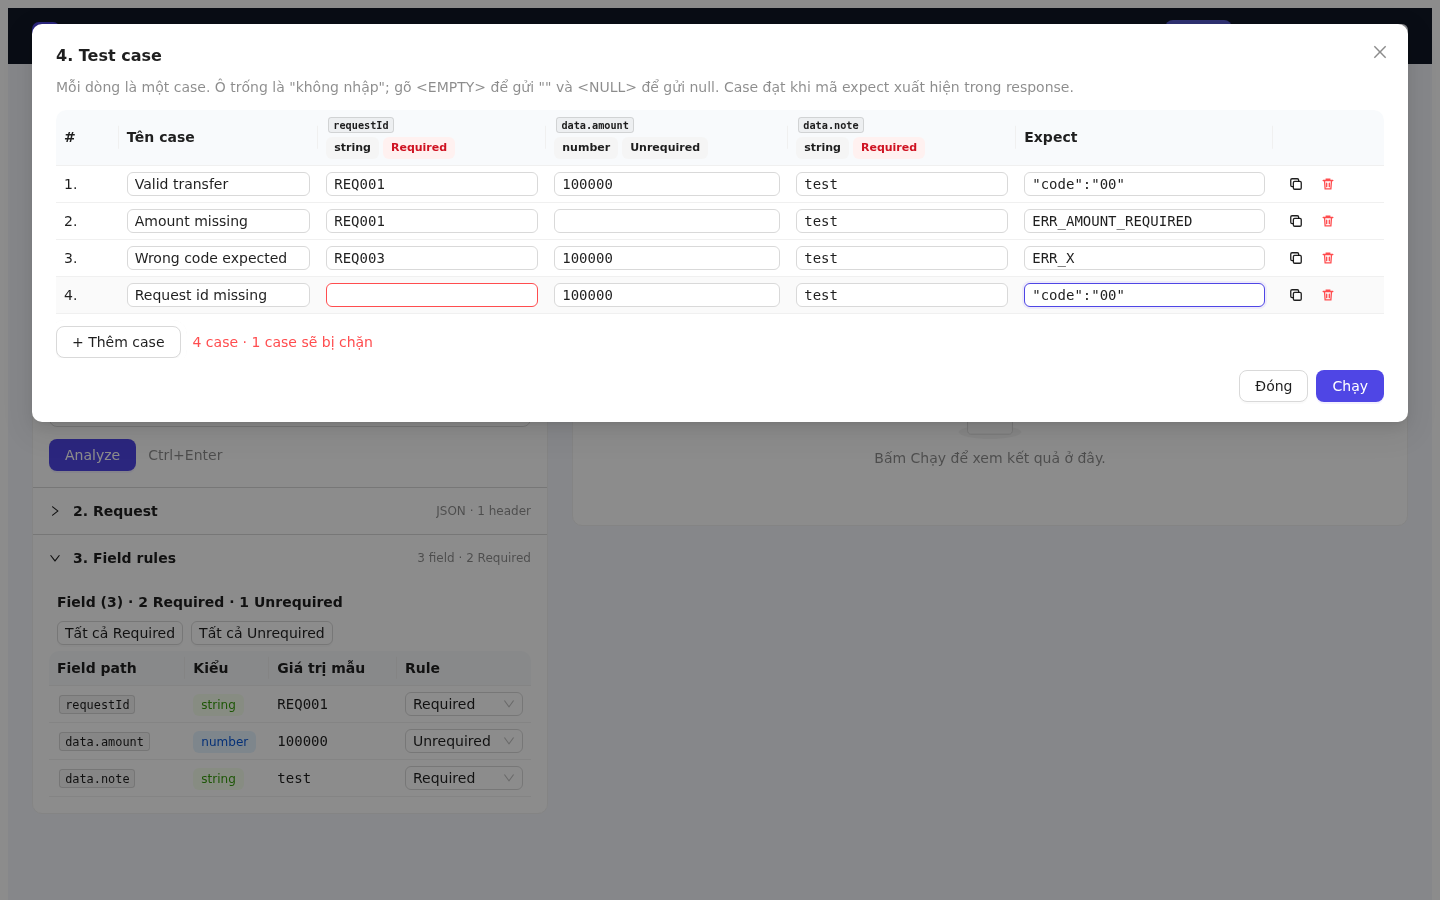
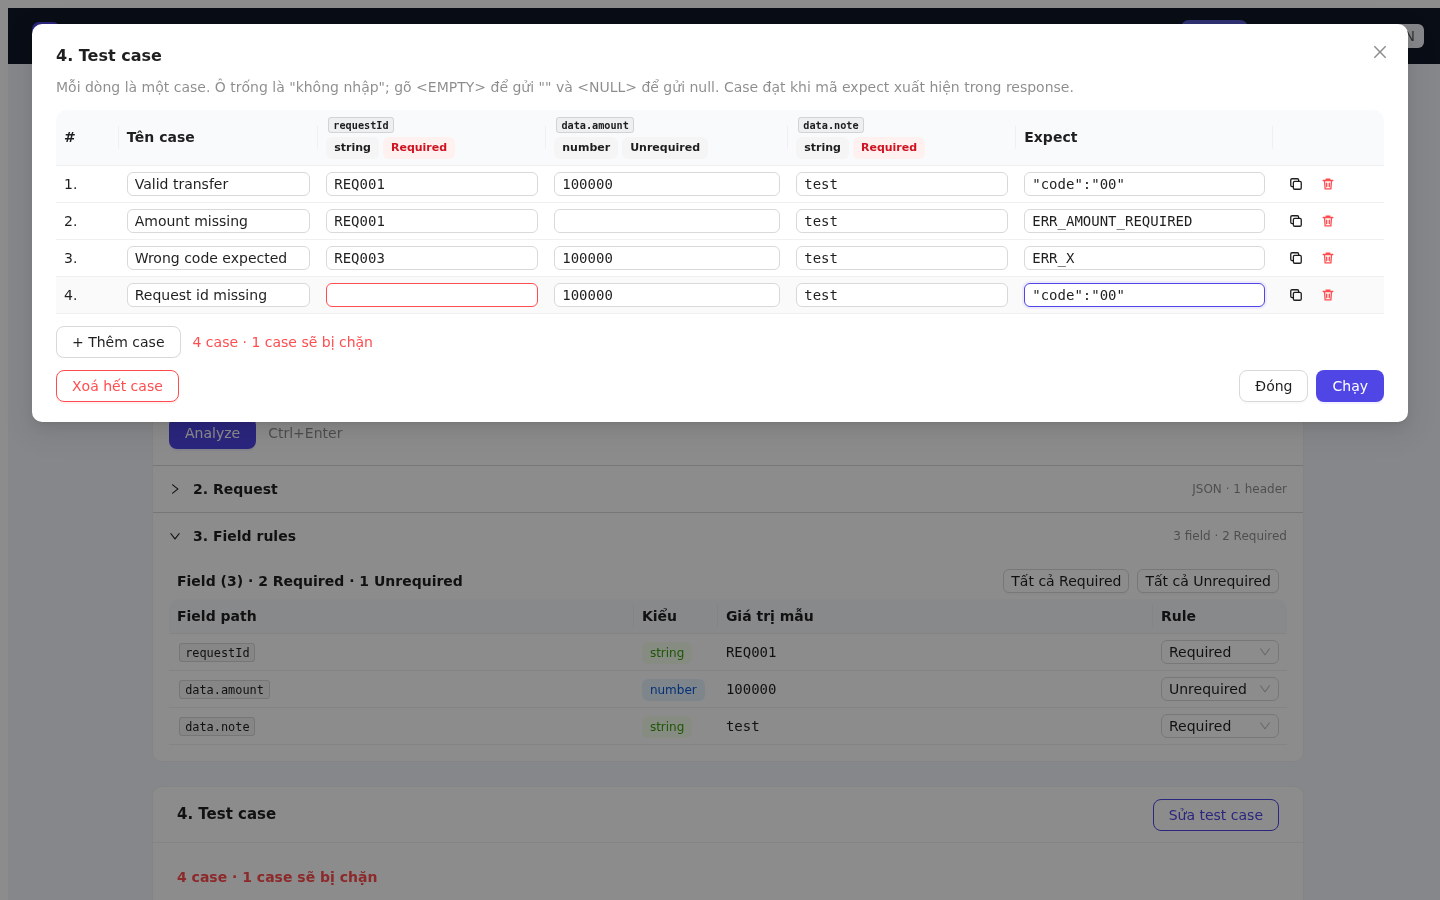
docs: describe the case popup flow

diff --git a/docs/user-guide.vi.md b/docs/user-guide.vi.md
@@ -37,13 +37,14 @@ Khi thấy dòng `listening`, mở **http://127.0.0.1:8080** trên trình duyệ
 
 Nếu developer đưa sẵn chương trình đã build (`caserunner.exe` trên Windows) thì bạn chỉ cần bước cuối này.
 
-Trang có một thanh trên màu tối và hai cột:
+Trang có một thanh trên màu tối và một cột ở giữa:
 
 - **Thanh trên**: nút **Chạy** (thành **Huỷ run** khi đang chạy, và **Chạy lại** sau đó), số case theo từng trạng thái, tag **BE OK** kèm phiên bản khi tool đã sẵn sàng, và nút **VI / EN** để đổi ngôn ngữ (lựa chọn được ghi nhớ).
-- **Cột trái, Cấu hình**: các bước mô tả request, **0. Lấy token**, **1. Curl**, **2. Request** và **3. Field rules**. Bấm vào tiêu đề để mở hoặc thu gọn; bước đang thu gọn hiện một dòng tóm tắt bên phải, ví dụ *POST https://…* hay *5 field · 4 Required*. **Nhập cấu hình** và **Xuất cấu hình** nằm ở đầu cột này. Nút **«** thu cột thành một dải hẹp để bảng case và kết quả dùng hết bề ngang; bấm vào dải đó để mở lại.
-- **Cột phải**: **4. Test case** (một thẻ tóm tắt; bảng case mở trong popup) và bên dưới là **5. Kết quả**.
+- **Cấu hình**: các bước mô tả request, **0. Lấy token**, **1. Curl**, **2. Request** và **3. Field rules**. Bấm vào tiêu đề để mở hoặc thu gọn; bước đang thu gọn hiện một dòng tóm tắt bên phải, ví dụ *POST https://…* hay *5 field · 4 Required*. **Nhập cấu hình** và **Xuất cấu hình** nằm ở đầu thẻ này.
+- **4. Test case**: một thẻ tóm tắt; bảng case mở trong popup.
+- **5. Kết quả**: được điền dần trong lúc chạy.
 
-Khi cửa sổ hẹp (dưới 1200 pixel), cột phải chuyển xuống dưới cột trái.
+Popup case tự mở sau khi Analyze một curl JSON; bấm **Chạy** thì popup đóng và trang cuộn tới phần kết quả.
 
 ![Toàn trang sau một lần chạy (giao diện tiếng Anh)](images/09-overview.png)
 
@@ -125,7 +126,7 @@ Khi chạy case, các bước lấy token chạy lại **trước mỗi case**, 
 
 ## 7. Nhập và chạy test case
 
-**4. Test case** hiện ở cột phải khi body là JSON. Thẻ này cho biết có bao nhiêu case và bao nhiêu case sẽ bị chặn, kèm tuỳ chọn chạy; bấm **Sửa test case** để mở bảng case trong một popup lớn. Bảng có một cột cho mỗi field, thêm **Tên case** và **Expect**. Sau khi Analyze, bảng có sẵn một dòng điền giá trị lấy từ curl. Đóng popup bằng **Đóng** (các dòng vẫn được giữ), hoặc bấm **Chạy** trong popup để đóng và chạy luôn.
+Khi Analyze một curl JSON, bảng case mở ra trong một popup lớn. Sau đó thẻ **4. Test case** trên trang cho biết có bao nhiêu case và bao nhiêu case sẽ bị chặn, kèm tuỳ chọn chạy; **Sửa test case** mở lại popup. Bảng có một cột cho mỗi field, thêm **Tên case** và **Expect**. Sau khi Analyze, bảng có sẵn một dòng điền giá trị lấy từ curl. Đóng popup bằng **Đóng** hoặc **×**, hoặc bấm **Chạy** trong popup để đóng và chạy luôn; cách nào thì các dòng cũng được giữ, kể cả sau khi chạy. Bảng chỉ trở về một dòng mẫu khi bạn bấm **Xoá hết case** (có hỏi lại), hoặc khi Analyze curl của **API khác** (method khác, hoặc địa chỉ khác khi bỏ phần sau dấu `?`). Analyze lại cùng API với body, header hay query khác thì vẫn giữ. Tải lại trang thì mất.
 
 ![Bảng case với bốn case](images/06-test-cases-vi.png)
 

diff --git a/docs/user-guide.md b/docs/user-guide.md
@@ -37,13 +37,14 @@ When `listening` appears, open **http://127.0.0.1:8080** in a browser. Leave the
 
 If a developer hands you a ready-built program (`caserunner.exe` on Windows), you only need this last step.
 
-The page has a dark top bar and two columns:
+The page has a dark top bar and one centered column:
 
 - **Top bar**: the **Run** button (it becomes **Cancel run** while a run is in progress, and **Run again** afterwards), a count of each result status, the **BE OK** tag with the version when the tool is ready, and the **VI / EN** switch, which changes the language and is remembered.
-- **Left, Configuration**: the steps that describe the request, **0. Token**, **1. Curl**, **2. Request** and **3. Field rules**. Click a title to open or close it; a closed step shows a one-line summary on the right, such as *POST https://…* or *5 fields · 4 Required*. **Import config** and **Export config** are at the top of this column. The **«** button hides the column to a thin rail so the cases and results get the whole width; click the rail to show it again.
-- **Right**: **4. Test cases** (a short summary; the table opens in a popup) and, below it, **5. Results**.
+- **Configuration**: the steps that describe the request, **0. Token**, **1. Curl**, **2. Request** and **3. Field rules**. Click a title to open or close it; a closed step shows a one-line summary on the right, such as *POST https://…* or *5 fields · 4 Required*. **Import config** and **Export config** are at the top of this card.
+- **4. Test cases**: a short summary; the case table opens in a popup.
+- **5. Results**: filled in live while a run is in progress.
 
-On a narrow window (under 1200 pixels) the right column moves below the left one.
+The case popup opens by itself after you analyze a JSON curl; after **Run** it closes and the page scrolls to the results.
 
 ![The whole page after a run](images/09-overview.png)
 
@@ -125,7 +126,7 @@ When cases run, the token steps run again **before every case**, so every case g
 
 ## 7. Write and run test cases
 
-**4. Test cases** appears in the right column when the body is JSON. It shows how many cases there are and how many will be blocked, with the run options; click **Edit test cases** to open the case table in a large popup. The table has one column per field, plus **Case name** and **Expect**. After Analyze it already holds one row filled with the values from your curl. Close the popup with **Close** (your rows are kept), or click **Run** in it to close it and start the run.
+When a JSON curl is analyzed, the case table opens in a large popup. Afterwards **4. Test cases** on the page shows how many cases there are and how many will be blocked, with the run options; **Edit test cases** opens the popup again. The table has one column per field, plus **Case name** and **Expect**. After Analyze it already holds one row filled with the values from your curl. Close the popup with **Close** or **×**, or click **Run** in it to close it and start the run; either way your rows are kept, also after the run. They are reset to one sample row only when you click **Clear cases** (it asks first), or when you analyze a curl for **another API** (another method, or another address without the part after `?`). Analyzing the same API again, with other body values, headers or query, keeps them. Reloading the page loses them.
 
 ![The case table with four cases](images/06-test-cases.png)
 

diff --git a/docs/brd/BRD-001.vi.md b/docs/brd/BRD-001.vi.md
@@ -779,7 +779,7 @@ Response 200 (kể cả khi một bước lỗi; lỗi nằm trong bước đó)
 
 ## 16. FE (React + TS + Vite + Ant Design)
 
-**Một trang duy nhất** chia hai cột: **Cấu hình** bên trái (bước 0–3 là các phần gập/mở, khi gập hiện một dòng tóm tắt; Nhập/Xuất cấu hình ở đầu cột; nút **«** thu cột thành một dải hẹp), **Test case** và **Kết quả** bên phải, nên curl luôn trong tầm tay khi nhập case. Dưới 1200 px hai cột xếp chồng. Toàn bộ state giữ trong React (`useReducer` hoặc Zustand; không cần Redux).
+**Một trang duy nhất**, một cột ở giữa: **Cấu hình** (bước 0–3 là các phần gập/mở, khi gập hiện một dòng tóm tắt; Nhập/Xuất cấu hình ở đầu thẻ), rồi **Test case** (thẻ tóm tắt; bảng case là một modal tự mở sau mỗi lần Analyze JSON thành công và đóng khi bấm Chạy, rồi cuộn tới kết quả), rồi **Kết quả**. Case được giữ khi đóng modal và khi chạy; chỉ trở về một dòng mẫu khi bấm **Xoá hết case** hoặc khi API được Analyze đổi khác (method + URL bỏ query). Toàn bộ state giữ trong React (`useReducer` hoặc Zustand; không cần Redux).
 
 **Thanh trên** (cố định). Tiêu đề, nút **Chạy** (thành **Huỷ run** khi đang chạy, **Chạy lại** sau đó), số case theo từng trạng thái đã xong, tag sức khoẻ backend (`BE OK · <version>`, hoặc `BE down` kèm banner lỗi) và nút đổi ngôn ngữ **VI / EN** (D22).
 

diff --git a/docs/brd/BRD-001.md b/docs/brd/BRD-001.md
@@ -779,7 +779,7 @@ Response 200 (also when a step fails; the failure is in the step):
 
 ## 16. FE (React + TS + Vite + Ant Design)
 
-A **single page** in two columns: **Configuration** on the left (steps 0–3 as collapsible sections, each showing a one-line summary when closed; Import/Export config at its top; a **«** button hides it to a thin rail), **Test cases** and **Results** on the right, so the curl stays reachable while cases are entered. Under 1200 px the columns stack. All state is kept in React (`useReducer` or Zustand; no Redux needed).
+A **single page**, one centered column: **Configuration** (steps 0–3 as collapsible sections, each showing a one-line summary when closed; Import/Export config at its top), then **Test cases** (a summary card; the table is a modal that opens after each successful JSON Analyze and closes on Run, which scrolls to the results), then **Results**. Cases survive closing the modal and running; they reset to one sample row only on **Clear cases** or when the analyzed API changes (method + URL without the query). All state is kept in React (`useReducer` or Zustand; no Redux needed).
 
 **Top bar** (fixed). The title, the **Run** button (**Cancel run** while running, **Run again** afterwards), counts of the finished statuses, a backend health tag (`BE OK · <version>`, or `BE down` with an error banner) and a **VI / EN** language switch (D22).
 
